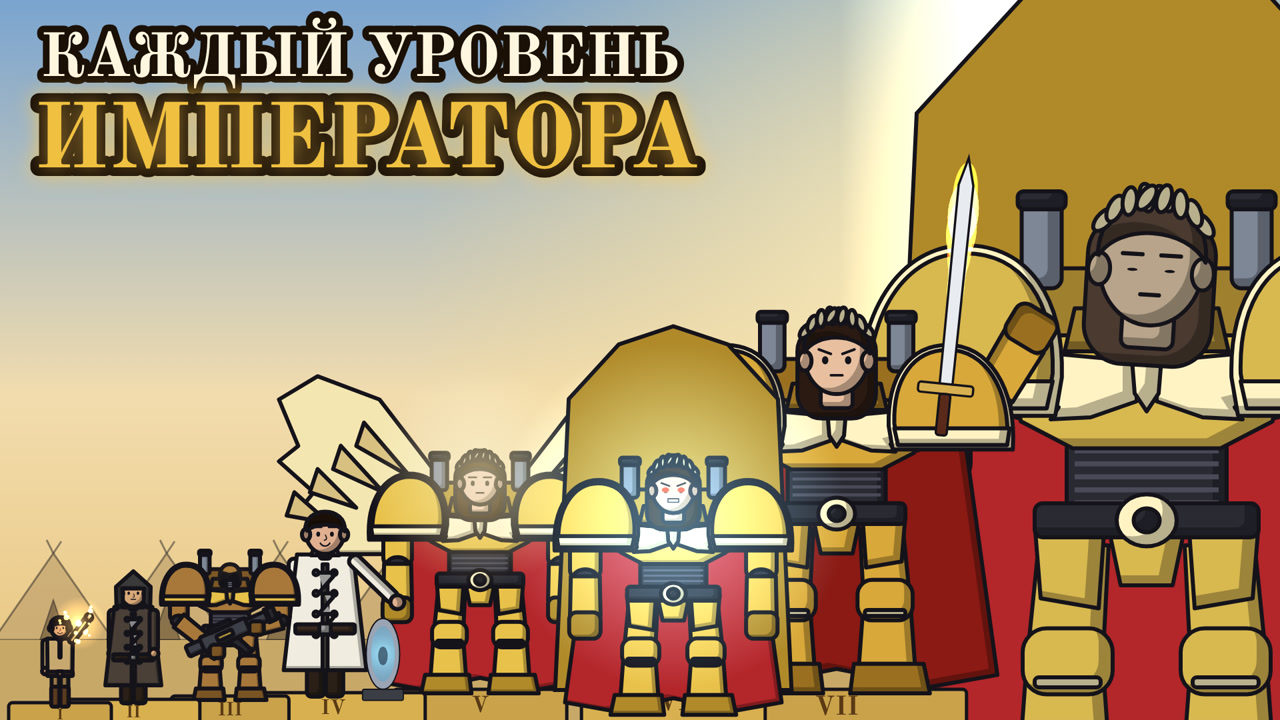
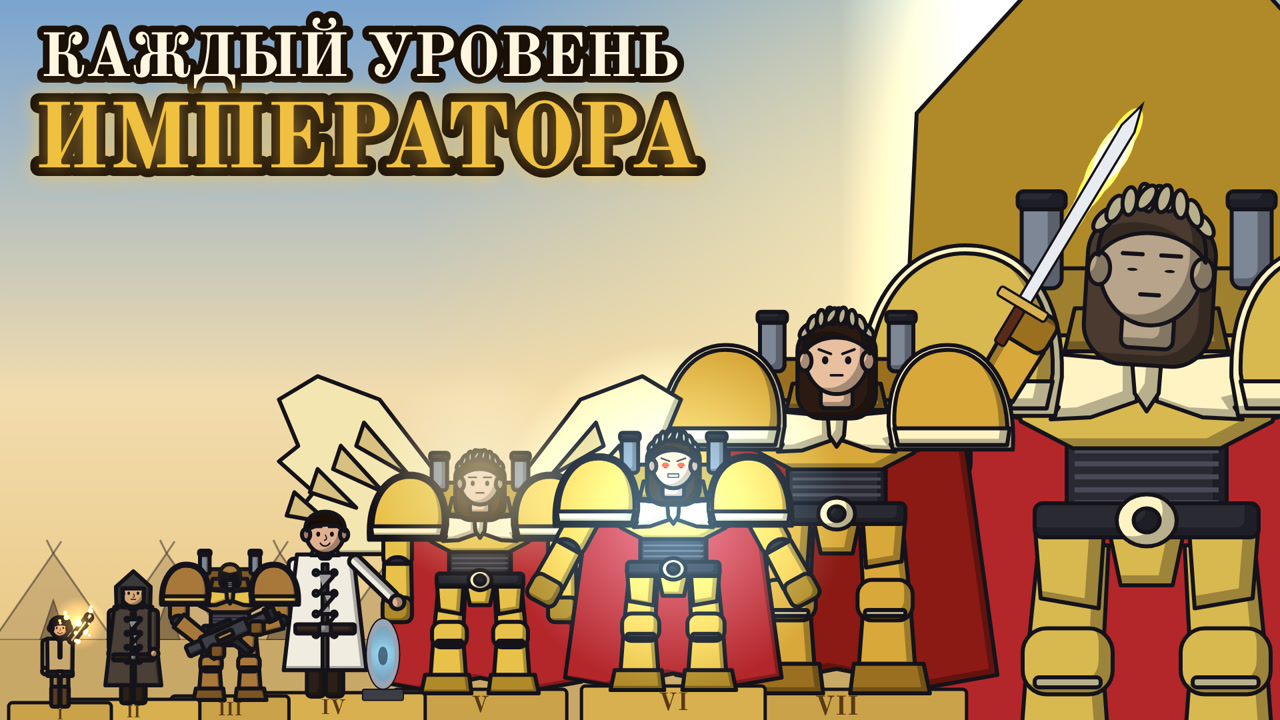
Emperor thumbnail: sword in hand, no throne at level VI
Claude-Session: https://claude.ai/code/session_01VCiShXH83VhpHK8tEUo9zn

Changed region(s): [[0.4062, 0.4278, 0.6562, 1.0], [0.7188, 0.1528, 0.9062, 0.6111]]

diff --git a/emperor/thumb.js b/emperor/thumb.js
@@ -24,8 +24,8 @@ function drawThumb(ctx) {
     [345, 1050, 0.36, (x, y, s) => drawRig(ctx, rig('marine', { plain: true, weapon: 'bolter' }), x, y, s, { expr: 'grit' }, BRONZE)],
     [500, 1045, 0.62, (x, y, s) => { person(ctx, x - 20 * s, y, s, { expr: 'happy', armR: -0.8 }, { coat: true, hat: 'none' }, pal(EP.sage, { coat: '#f0ece0', shirt: '#f0ece0', pants: '#d8d0c0', hair: '#1a1008' })); capsulePod(ctx, x + 120 * s, y, 0.45 * s, 0, 3, false); }],
     [720, 1040, 0.58, (x, y, s) => { drawRig(ctx, ER({ wings: true }), x, y, s, { expr: 'neutral' }, WINGED); haloGlow(ctx, x, y - 560 * s, 130 * s); }],
-    [1010, 1035, 0.62, (x, y, s) => { throne(x, y, s * 1.1); drawRig(ctx, ER({ eyeGlow: true, glowEyes: true }), x, y, s, { bob: 60, expr: 'grit' }, SEER); ctx.save(); ctx.globalCompositeOperation = 'lighter'; const g2 = ctx.createRadialGradient(x, y - 420 * s, 10, x, y - 420 * s, 420 * s); g2.addColorStop(0, 'rgba(140,220,255,0.45)'); g2.addColorStop(1, 'rgba(140,220,255,0)'); ctx.fillStyle = g2; ctx.fillRect(x - 420 * s, y - 840 * s, 840 * s, 840 * s); ctx.restore(); }],
-    [1255, 1040, 0.92, (x, y, s) => { drawRig(ctx, ER({}), x, y, s, { expr: 'angry', armR: -2.6 }, WAR); sword(ctx, x + 175 * s, y - 470 * s, 0.75 * s, 0.1, 1, 3); }],
+    [1010, 1035, 0.62, (x, y, s) => { drawRig(ctx, ER({ eyeGlow: true, glowEyes: true }), x, y, s, { expr: 'grit', armL: 0.5, armR: -0.5 }, SEER); ctx.save(); ctx.globalCompositeOperation = 'lighter'; const g2 = ctx.createRadialGradient(x, y - 420 * s, 10, x, y - 420 * s, 420 * s); g2.addColorStop(0, 'rgba(140,220,255,0.45)'); g2.addColorStop(1, 'rgba(140,220,255,0)'); ctx.fillStyle = g2; ctx.fillRect(x - 420 * s, y - 840 * s, 840 * s, 840 * s); ctx.restore(); }],
+    [1255, 1040, 0.92, (x, y, s) => { drawRig(ctx, ER({}), x, y, s, { expr: 'angry', armR: -2.6 }, WAR); sword(ctx, x + 290 * s, y - 612 * s, 0.75 * s, 0.54, 1, 3); }],
     [1720, 1130, 1.5, (x, y, s) => { beam(ctx, x, y - 560 * s, 300, 900, 0.6); throne(x, y, s); drawRig(ctx, ER({}), x, y, s, { bob: 60, blink: 1, head: 0.06, expr: 'neutral' }, GOD); }],
   ];
   // biggest at the back, smallest in front
